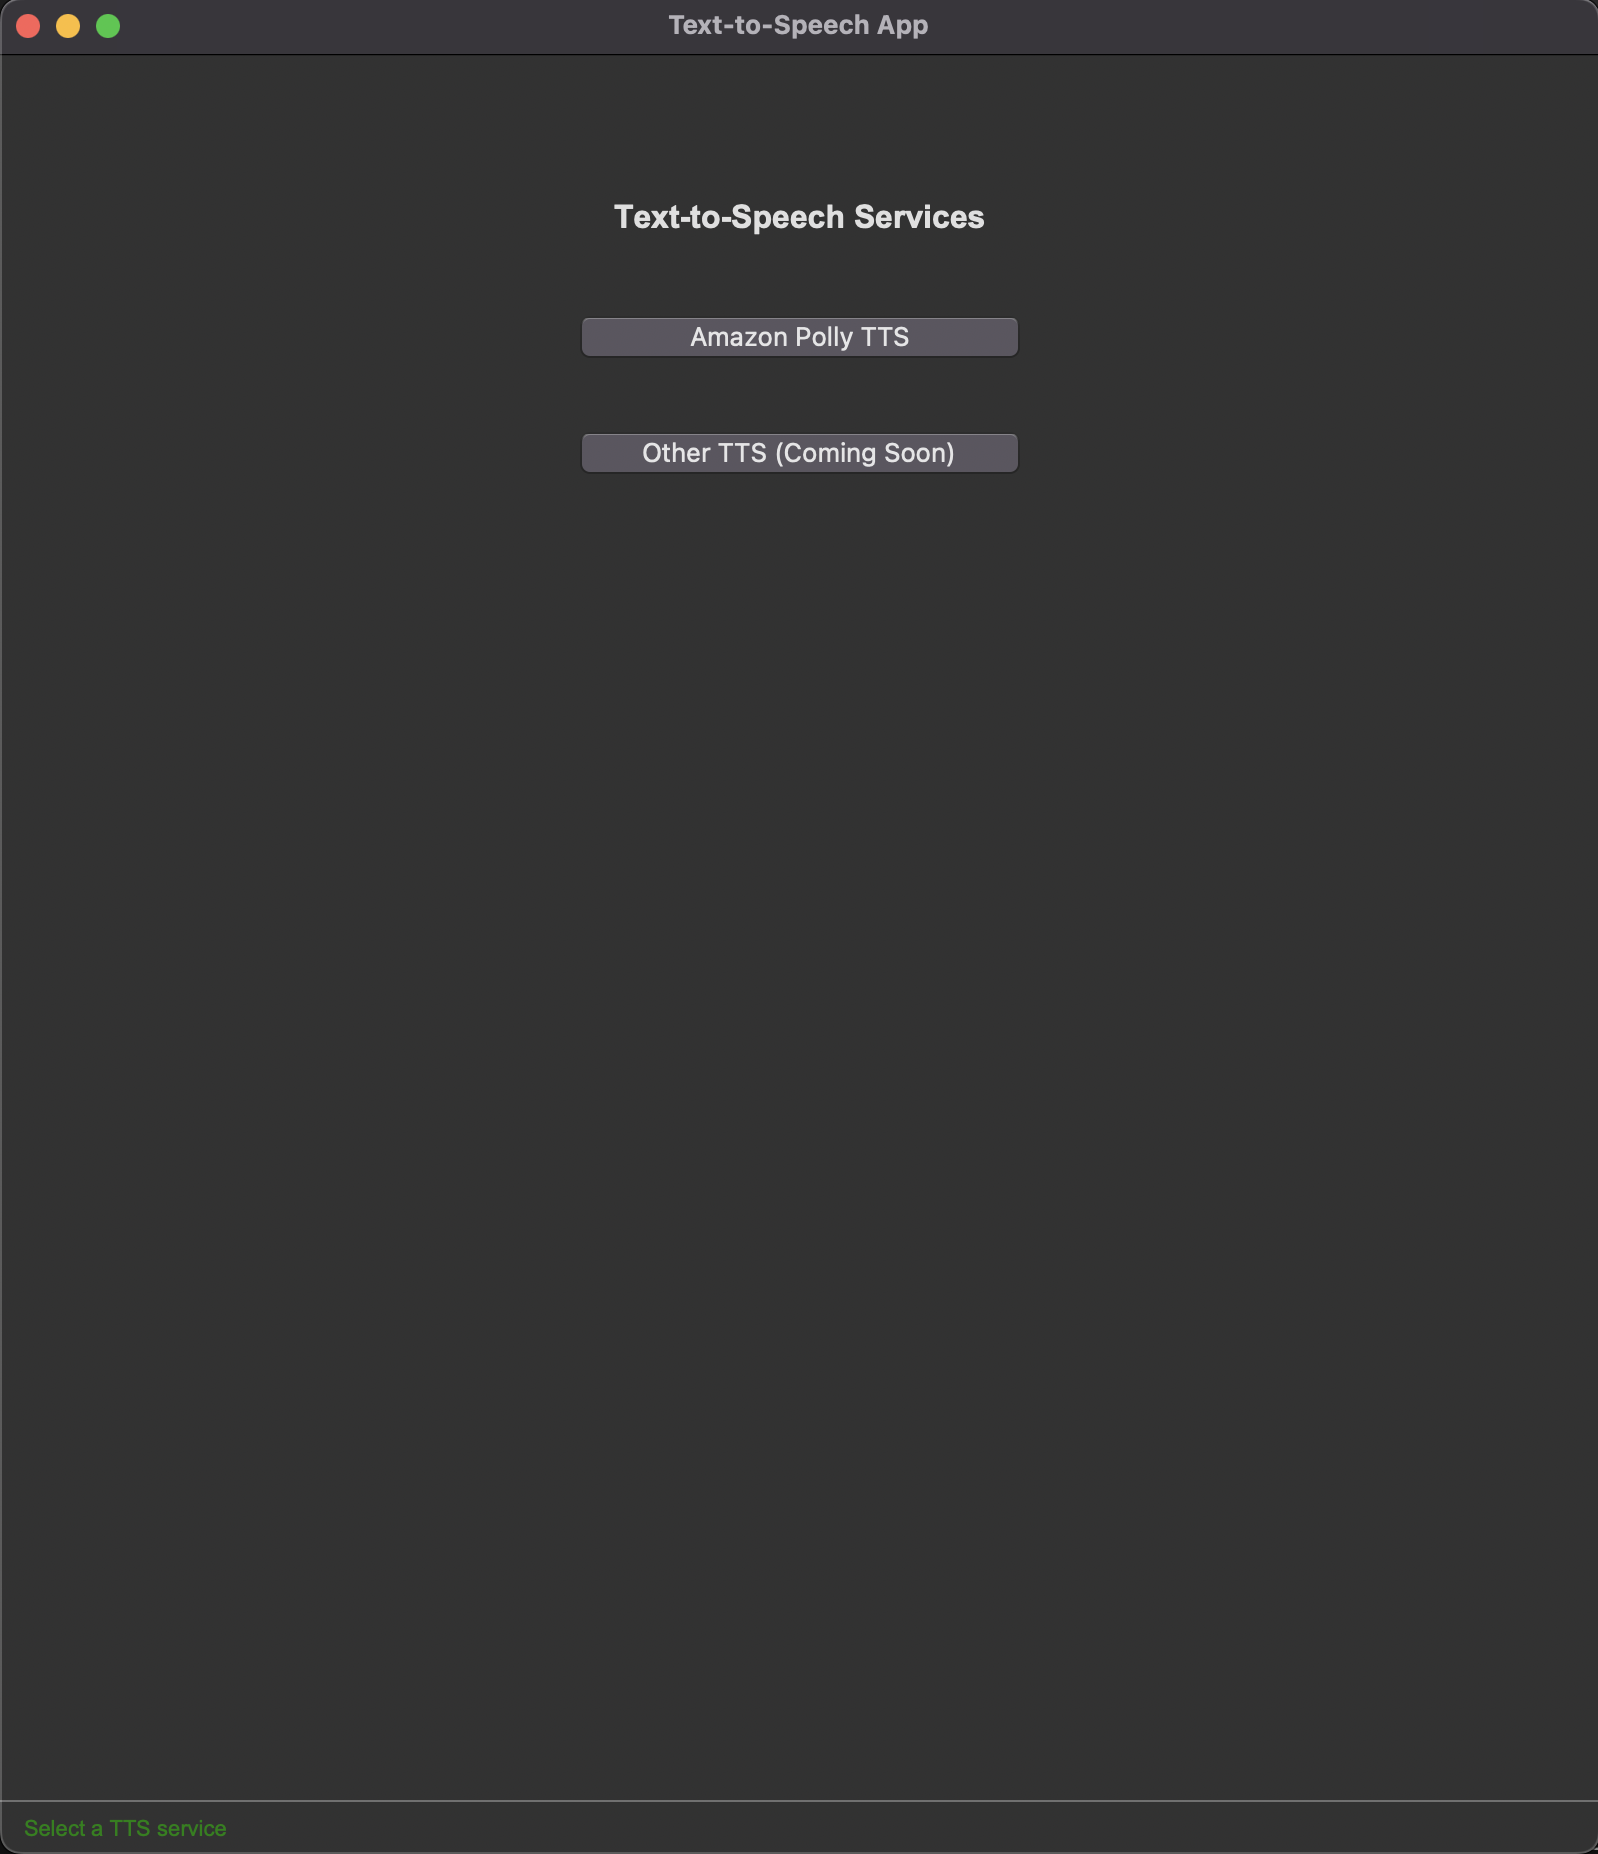
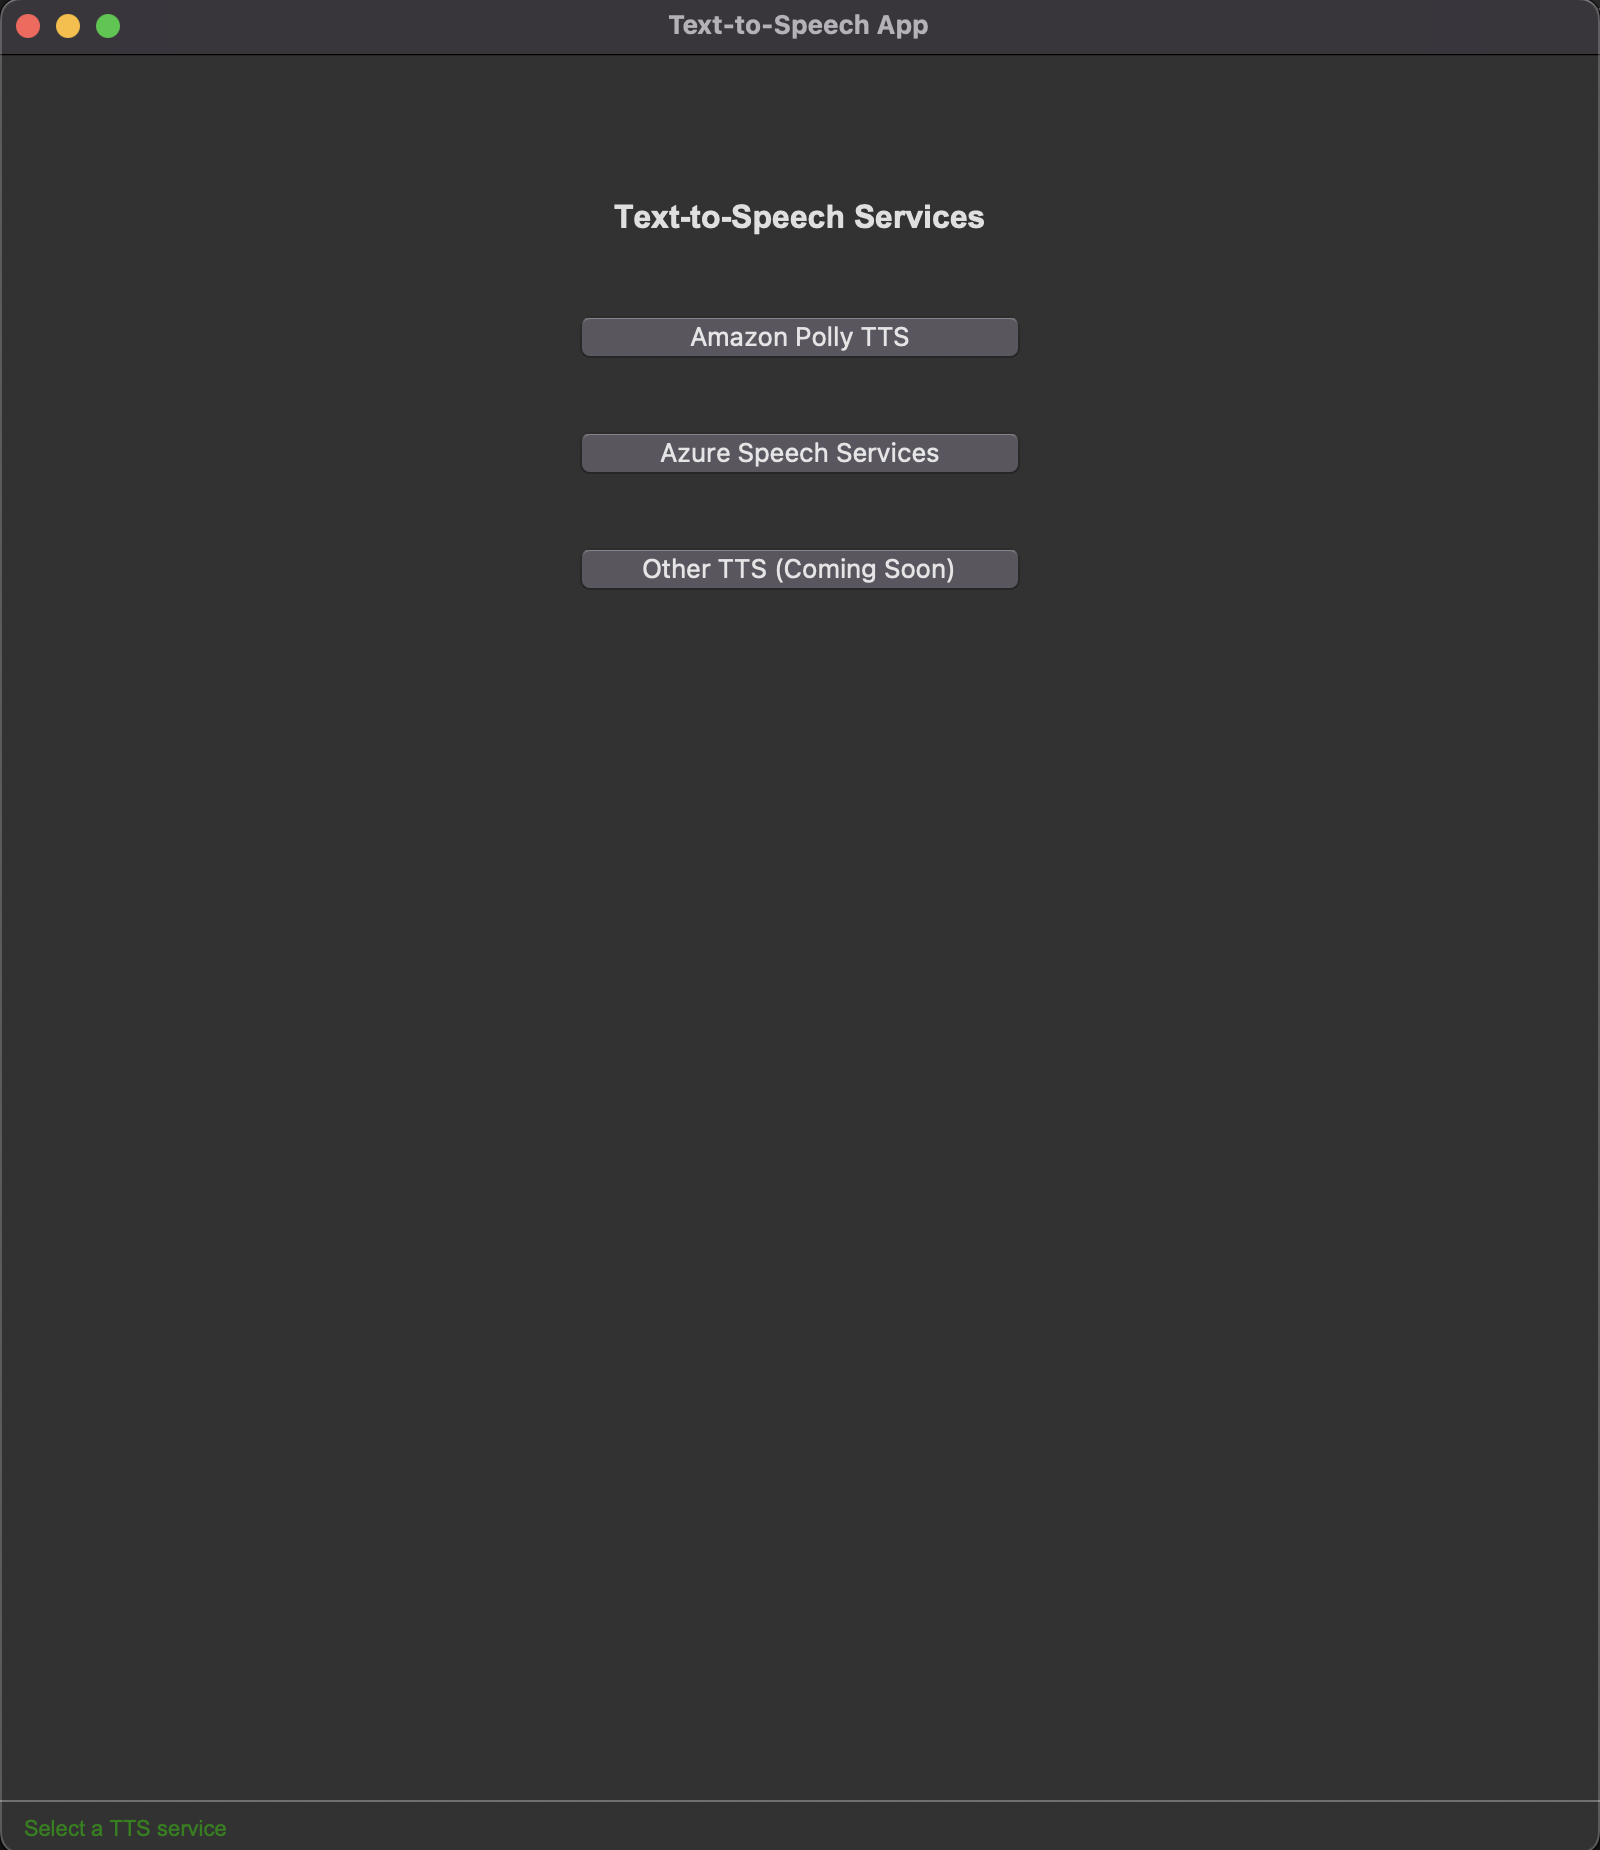
Update README.md

diff --git a/README.md b/README.md
@@ -1,10 +1,18 @@
 # Python TTS (Text-to-Speech) App
-A Python Text-to-Speech App using Amazon Polly TTS Service. This app takes text from the user and generates audio for it.
+A comprehensive Python Text-to-Speech application supporting multiple TTS services. Choose between Amazon Polly and Microsoft Azure Speech Services for high-quality text-to-speech conversion.
 
-<img src="images/Ui.png" width="800" style="border: 2px solid grey; border-radius: 10px;"><br>
-
+<img src="images/main_nav.png" width="800" style="border: 2px solid grey; border-radius: 10px;"><br>
 
 ## Features
+
+### Core Features
+- **Multi-Service Support**: Choose between Amazon Polly and Microsoft Azure Speech Services
+- **Secure Credential Management**: Encrypted storage using system keyring
+- **Flexible Output Options**:
+    - Instant playback ("Generate & Play")
+    - Save to Downloads folder ("Generate & Save")
+
+### Amazon Polly Features
 - Convert text to speech using AWS Polly
 - Region selection with automatic engine detection
 - Real-time character counting (3000 char limit)
@@ -12,12 +20,24 @@ A Python Text-to-Speech App using Amazon Polly TTS Service. This app takes text 
 - Multiple language and voice selection
 - Multiple output formats (mp3, ogg_vorbis, pcm)
 - Multiple sample rate
-- Audio Generation Options:
-    - Instant playback ("Generate & Play")
-    - Save to Downloads folder ("Generate & Save")
-- Save and edit AWS credentials 
+- Save and edit AWS credentials
+
+### Microsoft Azure Features
+- Convert text to speech using Azure Cognitive Services
+- High-quality neural voices
+- Real-time character counting (3000 char limit)
+- Multiple language and voice selection
+- Save and edit AWS credentials
 
 ## Setup Guide
+
+### Installation
+1. Go to Releases then to the latest release
+2. Click on the .zip file to download it
+3. Double click on the zip file to open it
+4. Double click on the TTSApp to open the app
+
+## Amazon Polly Setup
 
 ### 1. AWS Account Setup
 
@@ -71,54 +91,110 @@ A Python Text-to-Speech App using Amazon Polly TTS Service. This app takes text 
    - `AWS Access key ID`
    - `AWS Secret access key`
 
+## Microsoft Azure Speech Services Setup
 
-## App Installation
-1. Go to Releases then to the latest release
-2. Click on the .zip file to download it
-3. Double click on the zip file to open it
-4. Double click on the TTSApp to open the app
+### 1. Azure Account Setup
 
-## User Guide for AWS Polly
+#### Create Azure Account
+1. Go to [Azure Portal](https://portal.azure.com/)
+2. Click "Start free" or "Sign in"
+3. Create a new Microsoft account or use existing one
+4. Provide required information and verification
 
-### 1. Select Amazon Polly TTS
+### 2. Create Speech Service Resource
+
+#### Access Azure Portal
+1. Log in to [Azure Portal](https://portal.azure.com/)
+2. Click **"Create a resource"** (+ icon)
+3. Search for **"Speech"**
+4. Click **"Speech"** by Microsoft
+
+#### Configure Speech Service
+1. Fill in the required fields:
+   - **Subscription**: Choose your subscription
+   - **Resource Group**: Create new or use existing
+   - **Region**: Choose a region (e.g., East US)
+   - **Name**: Enter a unique name for your speech service
+   - **Pricing Tier**: Choose appropriate tier (F0 for free tier)
+2. Click **"Review + create"**
+3. Click **"Create"**
+
+### 3. Get Service Credentials
+
+1. After deployment, go to your Speech service resource
+2. In the left menu, click **"Keys and Endpoint"**
+3. Copy the following values:
+   - **Key 1** (Subscription Key)
+   - **Endpoint URL**
+
+## User Guide
+
+### Getting Started
 
 <img src="images/main_nav.png" width="800" style="border: 2px solid grey; border-radius: 10px;"><br>
-- Launch the application and select Amazon Polly TTS
 
----
+1. Launch the application
+2. Choose your preferred TTS service:
+   - **Amazon Polly TTS** - AWS-powered speech synthesis
+   - **Microsoft Azure TTS** - Azure Speech Services
 
-### 2. Credential Configuration
+
+## Using Amazon Polly TTS
+
+### 1. Credential Configuration
 
 <img src="images/polly_auth.png" width="800" style="border: 2px solid grey; border-radius: 10px;"><br>
 
 - In the "AWS Credentials Setup" section, enter credentials from your downloaded .csv file:
     - AWS Access Key ID (from your downloaded .csv)
     - AWS Secret Access Key (from your downloaded .csv)
-- Enable ☑ Remember credentials for automatic login
+- Enable ☑ **Remember credentials** for automatic login
 - Click **"Save & Continue"**
 
----
+### 2. Text-to-Speech with Polly
 
-### 3. Text-to-Speech Conversion
+<img src="images/polly_main.png" width="800" style="border: 2px solid grey; border-radius: 10px;"><br>
 
-<img src="images/Ui.png" width="800" style="border: 2px solid grey; border-radius: 10px;"><br>
-
-1. Select AWS region from dropdown (Recommended: us-east-1)
-2. Type or paste your text into the large text box. Character count available.
-3. Select Configurations:
-    - Voice Engine
+1. **Select Region**: Choose AWS region from dropdown (Recommended: us-east-1)
+2. **Enter Text**: Type or paste your text into the text box (character count displayed)
+3. **Configure Voice Settings**:
+    - Voice Engine (Standard, Neural, Long-form, Generative)
     - Language
     - Voice
-4. Audio Settings (for "Generate & Save")
-    - Output Format
+4. **Audio Settings** (for "Generate & Save"):
+    - Output Format (MP3, OGG Vorbis, PCM)
     - Sample Rate
-5. Generate Audio:
-    - Press "Generate & Play" to convert your text and play audio immediately
-    - Press "Generate & Save" to convert your text and save audio file to your Downloads folder (The app will show the save path in the status message)
+5. **Generate Audio**:
+    - **"Generate & Play"**: Convert and play audio immediately
+    - **"Generate & Save"**: Convert and save to Downloads folder
+
+
+## Using Microsoft Azure TTS
+
+### 1. Credential Configuration
+
+<img src="images/azure_auth.png" width="800" style="border: 2px solid grey; border-radius: 10px;"><br>
+
+- In the "Azure Speech Service Setup" section, enter your Azure credentials:
+    - **Subscription Key** (Key 1 from Azure portal)
+    - **Endpoint URL** (from Azure portal)
+- Enable ☑ **Remember credentials** for automatic login
+- Click **"Save & Continue"**
+
+### 2. Text-to-Speech with Azure
+
+<img src="images/azure_main.png" width="800" style="border: 2px solid grey; border-radius: 10px;"><br>
+
+1. **Enter Text**: Type or paste your text into the text box (character count displayed)
+2. **Configure Voice Settings**:
+    - Language
+    - Voice
+3. **Generate Audio**:
+    - **"Generate & Play"**: Convert and play audio immediately
+    - **"Generate & Save"**: Convert and save to Downloads folder
+
 
 ## Project Roadmap
 
-- Transform app into an app that supports multiple TTS service
-- Make the app available for Windows and Linux (x86 architecture)
-- Add more features such as tracking free characters count remaining
-- Usage of AI assistance to refine the text (e.g., fix typos, grammar errors, improve language)
+- Usage tracking and free character count monitoring
+- AI-powered text refinement (typo correction, grammar improvement)
